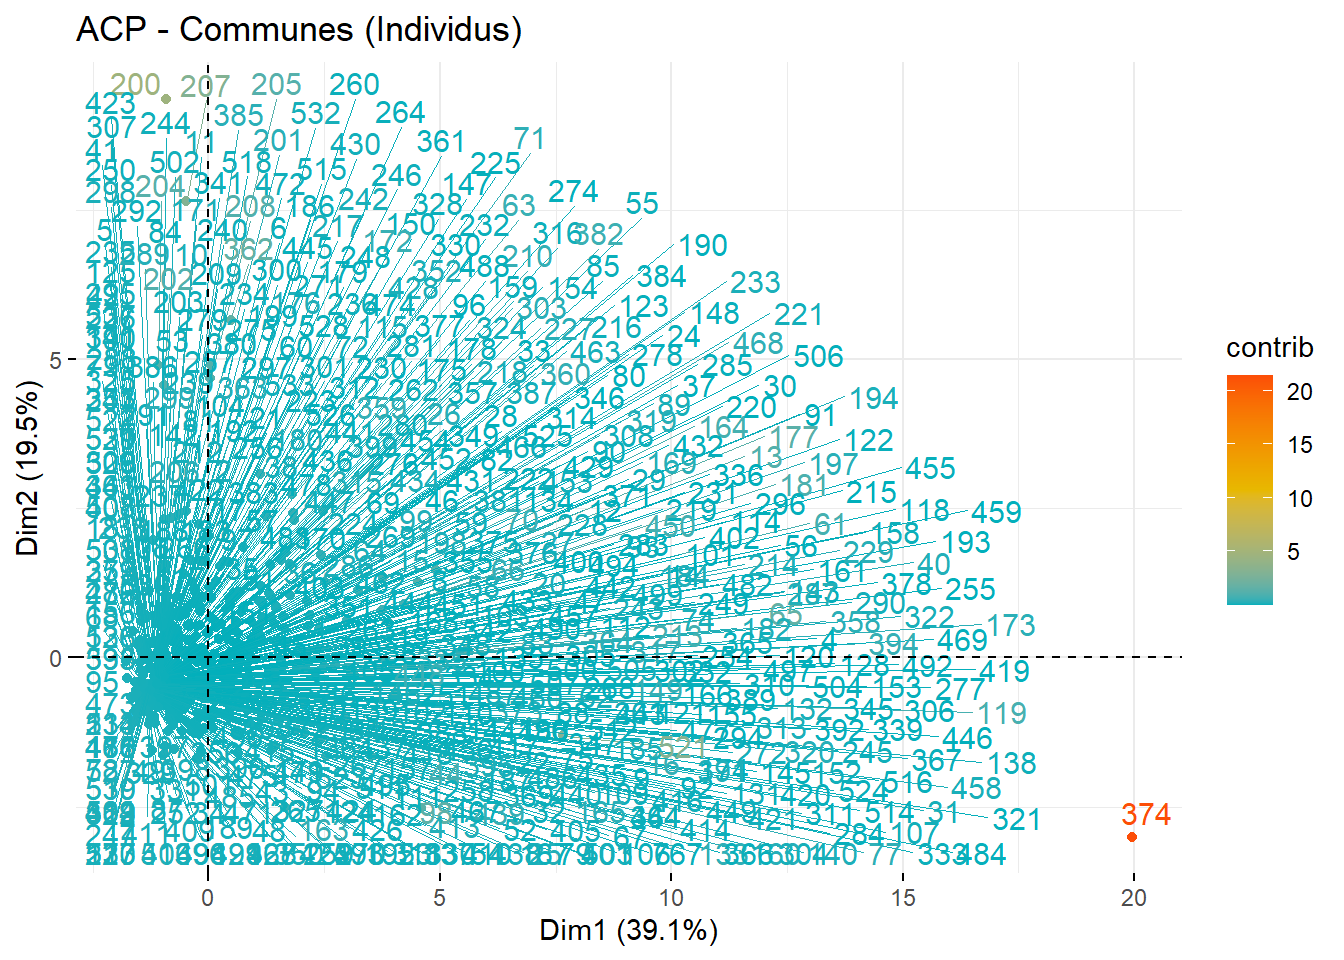
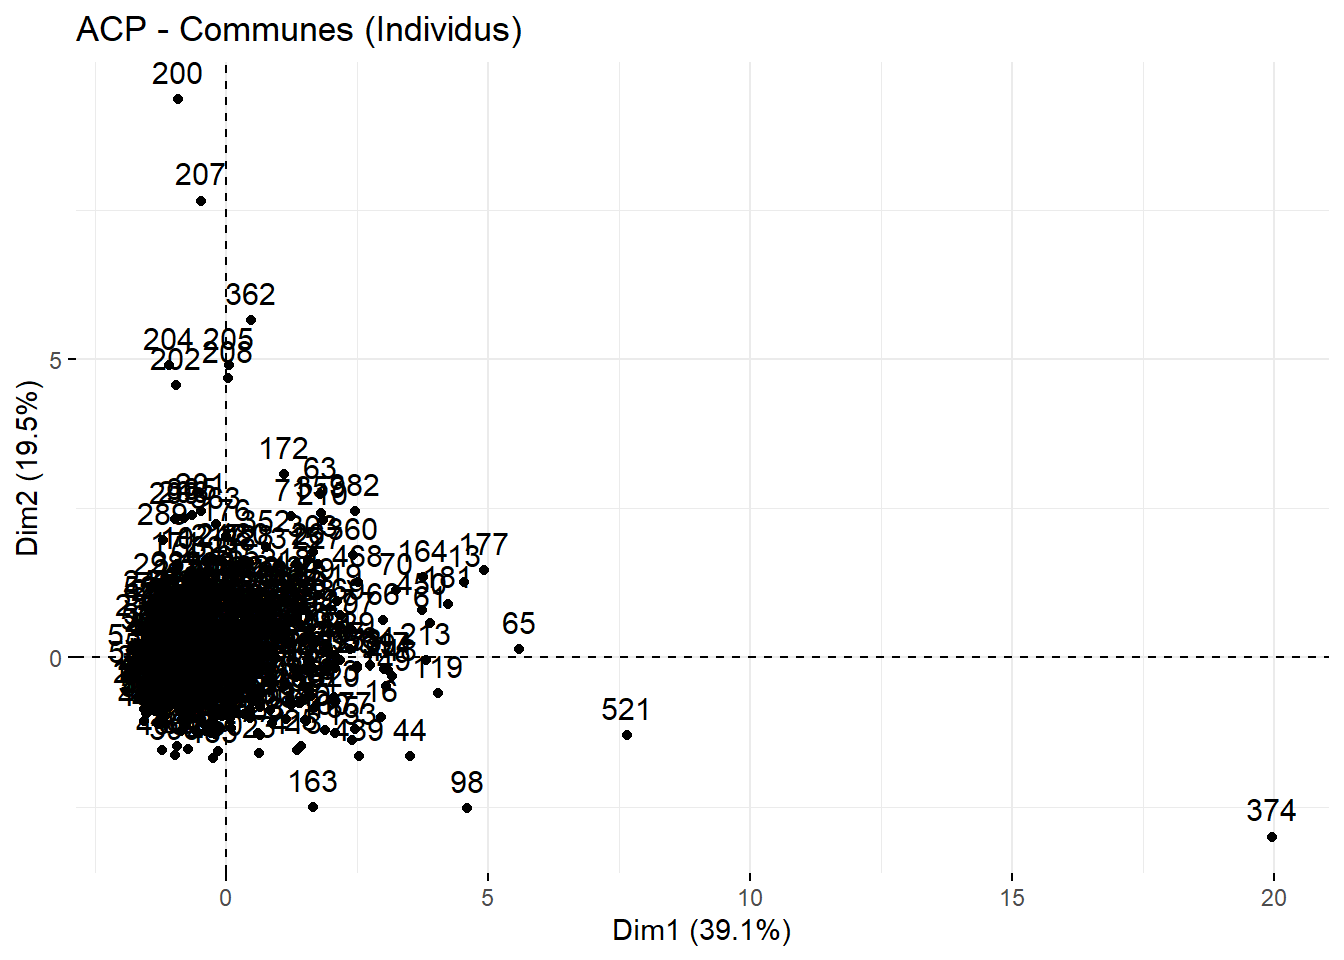
modif vif

diff --git a/ACP.html b/ACP.html
@@ -104,10 +104,9 @@ pre > code.sourceCode > span > a:first-child::before { text-decoration: underlin
 <p>ACP (/1000)</p>
 <div class="cell">
 <div class="sourceCode cell-code" id="cb1"><pre class="sourceCode r code-with-copy"><code class="sourceCode r"><span id="cb1-1"><a href="#cb1-1" aria-hidden="true" tabindex="-1"></a><span class="fu">fviz_pca_ind</span>(res_acp,</span>
-<span id="cb1-2"><a href="#cb1-2" aria-hidden="true" tabindex="-1"></a>             <span class="at">col.ind =</span> <span class="st">"contrib"</span>, </span>
-<span id="cb1-3"><a href="#cb1-3" aria-hidden="true" tabindex="-1"></a>             <span class="at">gradient.cols =</span> <span class="fu">c</span>(<span class="st">"#00AFBB"</span>, <span class="st">"#E7B800"</span>, <span class="st">"#FC4E07"</span>),</span>
-<span id="cb1-4"><a href="#cb1-4" aria-hidden="true" tabindex="-1"></a>             <span class="at">repel =</span> <span class="cn">TRUE</span>,</span>
-<span id="cb1-5"><a href="#cb1-5" aria-hidden="true" tabindex="-1"></a>             <span class="at">title =</span> <span class="st">"ACP - Communes (Individus)"</span>)</span></code><button title="Copy to Clipboard" class="code-copy-button"><i class="bi"></i></button></pre></div>
+<span id="cb1-2"><a href="#cb1-2" aria-hidden="true" tabindex="-1"></a>             <span class="at">gradient.cols =</span> <span class="fu">c</span>(<span class="st">"#00AFBB"</span>, <span class="st">"#E7B800"</span>, <span class="st">"#FC4E07"</span>),</span>
+<span id="cb1-3"><a href="#cb1-3" aria-hidden="true" tabindex="-1"></a>             <span class="at">repel =</span> F,</span>
+<span id="cb1-4"><a href="#cb1-4" aria-hidden="true" tabindex="-1"></a>             <span class="at">title =</span> <span class="st">"ACP - Communes (Individus)"</span>)</span></code><button title="Copy to Clipboard" class="code-copy-button"><i class="bi"></i></button></pre></div>
 <div class="cell-output-display">
 <div>
 <figure class="figure">
